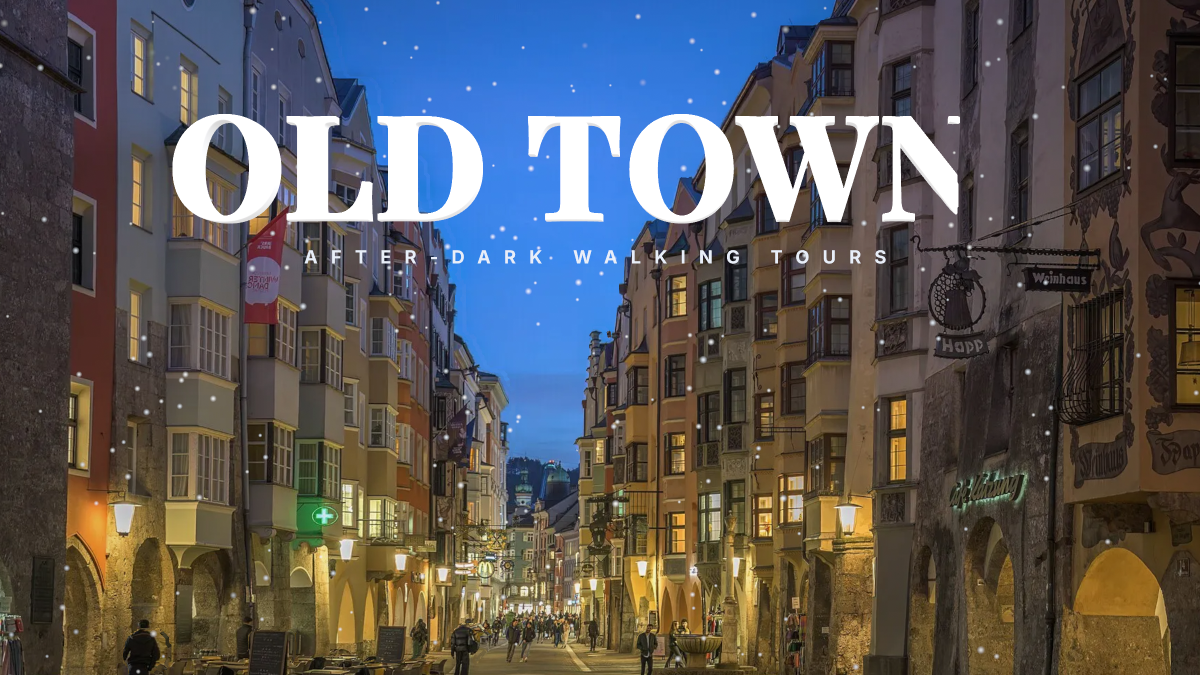
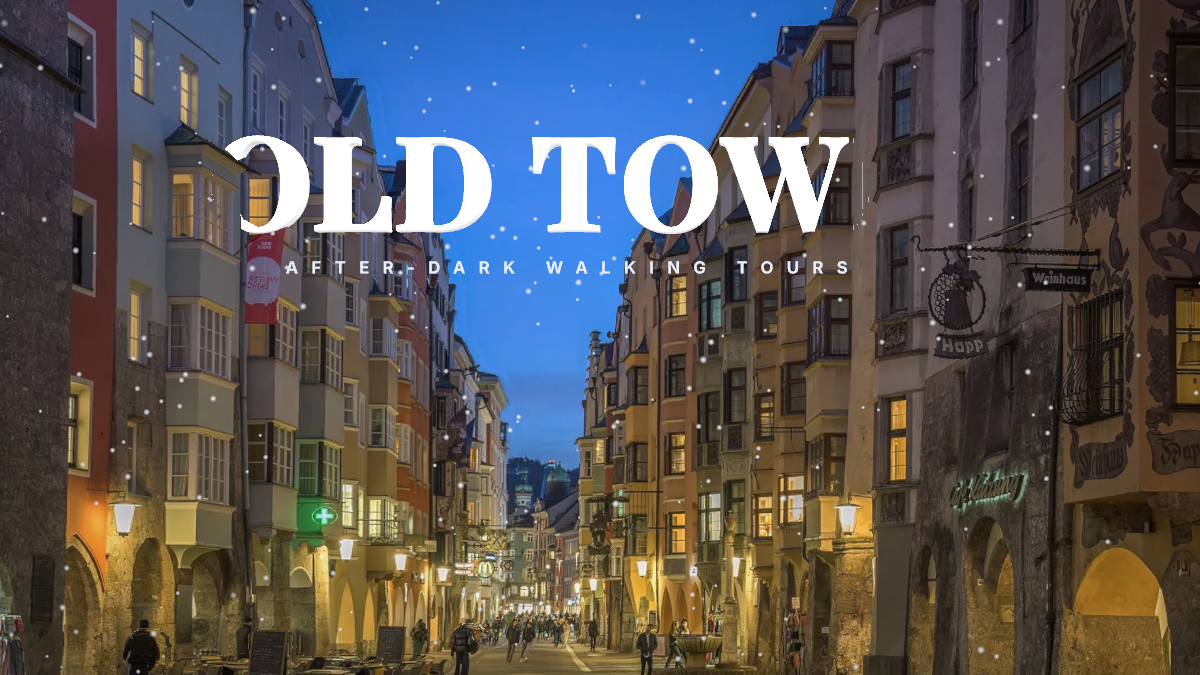
photo-title-inside: title deeper (both facades cut into it), subtitle in front

Changed region(s): [[0.1233, 0.1556, 0.8017, 0.4044]]

diff --git a/hermes/skills/agent3d-create/SKILL.md b/hermes/skills/agent3d-create/SKILL.md
@@ -182,7 +182,7 @@ When the user wants the 3D content *inside* the picture (a title passing behind 
 
 1. Turn it on: `[{ "op": "set", "path": "objects#photo.occlude", "value": true }]`.
 2. Read where the photo's depths are: `python3 ${HERMES_SKILL_DIR}/scripts/agent3d.py scene summary --project my-hero --json` → the photo's `depthRange: [zFar, zNear]` (world z of its depth-0 and depth-1 pixels; the `focus` depth is at the photo's own z). A depth-map value d sits at about `z = (d - focus) × strength × width × 0.25` (exact formula in `docs/scene-format.md`, "3D inside the photo").
-3. Place the title: z a little smaller (farther) than the depth of the subject that should cover it, larger than what should stay behind it; x / y so the subject overlaps part of the letters. E.g. a street at `strength` 0.8, `focus` 0.45, `width` 11.9: the sky is at z ≈ -1.2, the nearest facade at z ≈ 1.15, a title at z ≈ 0.12 (depth ≈ 0.5) is covered where the facade is nearer.
+3. Place the title: z a little smaller (farther) than the depth of the subject that should cover it, larger than what should stay behind it; x / y so the subject overlaps part of the letters. E.g. a street at `strength` 0.8, `focus` 0.45, `width` 11.9: the sky is at z ≈ -1.2, the nearest facade at z ≈ 1.15, a title at z ≈ -0.15 (depth ≈ 0.4) is covered at both ends by the nearest buildings; a subtitle at z ≈ 0.35 stays in front.
 4. Particles: give them an `area` whose z spans the whole range (e.g. `"area": [12, 8, 4]` centred at z ≈ 0.4) so they fall in front of and behind the subject.
 5. Render with the pointer at the corners and look: the subject must cover the letters at the same place in every frame (no sliding of the title over the facade):
    ```bash

diff --git a/plugin/skills/agent3d-create/SKILL.md b/plugin/skills/agent3d-create/SKILL.md
@@ -167,7 +167,7 @@ When the user wants the 3D content *inside* the picture (a title passing behind 
 
 1. Turn it on: `[{ "op": "set", "path": "objects#photo.occlude", "value": true }]`.
 2. Read where the photo's depths are: `npx -y @fleox/agent3d@0.4.0 scene summary --project my-hero --json` → the photo's `depthRange: [zFar, zNear]` (world z of its depth-0 and depth-1 pixels; the `focus` depth is at the photo's own z). A depth-map value d sits at about `z = (d - focus) × strength × width × 0.25` (exact formula in `docs/scene-format.md`, "3D inside the photo").
-3. Place the title: z a little smaller (farther) than the depth of the subject that should cover it, larger than what should stay behind it; x / y so the subject overlaps part of the letters. E.g. a street at `strength` 0.8, `focus` 0.45, `width` 11.9: the sky is at z ≈ -1.2, the nearest facade at z ≈ 1.15, a title at z ≈ 0.12 (depth ≈ 0.5) is covered where the facade is nearer.
+3. Place the title: z a little smaller (farther) than the depth of the subject that should cover it, larger than what should stay behind it; x / y so the subject overlaps part of the letters. E.g. a street at `strength` 0.8, `focus` 0.45, `width` 11.9: the sky is at z ≈ -1.2, the nearest facade at z ≈ 1.15, a title at z ≈ -0.15 (depth ≈ 0.4) is covered at both ends by the nearest buildings; a subtitle at z ≈ 0.35 stays in front.
 4. Particles: give them an `area` whose z spans the whole range (e.g. `"area": [12, 8, 4]` centred at z ≈ 0.4) so they fall in front of and behind the subject.
 5. Render with the pointer at the corners and look: the subject must cover the letters at the same place in every frame (no sliding of the title over the facade):
    ```bash

diff --git a/templates/photo-title-inside/README.md b/templates/photo-title-inside/README.md
@@ -6,7 +6,7 @@ How it works: the photo has `"occlude": true`. Each photo pixel writes its true 
 
 ## Where to put things
 
-`agent3d scene summary --json` gives the photo a `depthRange: [zFar, zNear]`: the world z of its farthest (depth 0) and nearest (depth 1) pixels. Here the focus depth (0.45, the plane that stays still) is at z = 0, the sky at about z = -1.2 and the nearest facade at about z = 1.15. A depth-map value d sits at local z ≈ (d - focus) × strength × width × 0.25 (exactly: see `docs/scene-format.md`, "3D inside the photo"). The title is at z = 0.12, depth ≈ 0.5: the right facade (depth 0.5 to 0.85) covers it, the sky and the far houses (depth 0 to 0.45) stay behind it. Move it to z = 0.4 and less of it hides; to z = -0.2 and the buildings on both sides cut into it.
+`agent3d scene summary --json` gives the photo a `depthRange: [zFar, zNear]`: the world z of its farthest (depth 0) and nearest (depth 1) pixels. Here the focus depth (0.45, the plane that stays still) is at z = 0, the sky at about z = -1.2 and the nearest facade at about z = 1.15. A depth-map value d sits at local z ≈ (d - focus) × strength × width × 0.25 (exactly: see `docs/scene-format.md`, "3D inside the photo"). The title is at z = -0.15, depth ≈ 0.4: the nearest bay windows on the left and the right facade cover the ends of its first and last letters, the sky and the far houses stay behind it. Move it to z = 0.2 and less of it hides; to z = -0.45 and the buildings on both sides cut deep into it.
 
 ## What to tweak
 

diff --git a/docs/scene-format.md b/docs/scene-format.md
@@ -529,7 +529,7 @@ With `"occlude": true` a depth photo is a real 3D backdrop: text, meshes, models
 ```json
 { "id": "photo", "kind": "photo", "src": "assets/textures/street.webp", "depth": "assets/depth/street-depth.png",
   "width": 11.9, "strength": 0.8, "focus": 0.45, "occlude": true },
-{ "id": "title", "kind": "text", "text": "OLD TOWN", "size": 0.92, "position": [-0.2, 1.55, 0.12] }
+{ "id": "title", "kind": "text", "text": "OLD TOWN", "size": 0.85, "position": [-0.25, 1.45, -0.15] }
 ```
 
 **Where the photo's pixels are.** A pixel of depth-map value `d` (0 far … 1 near) sits at the photo's local z:
